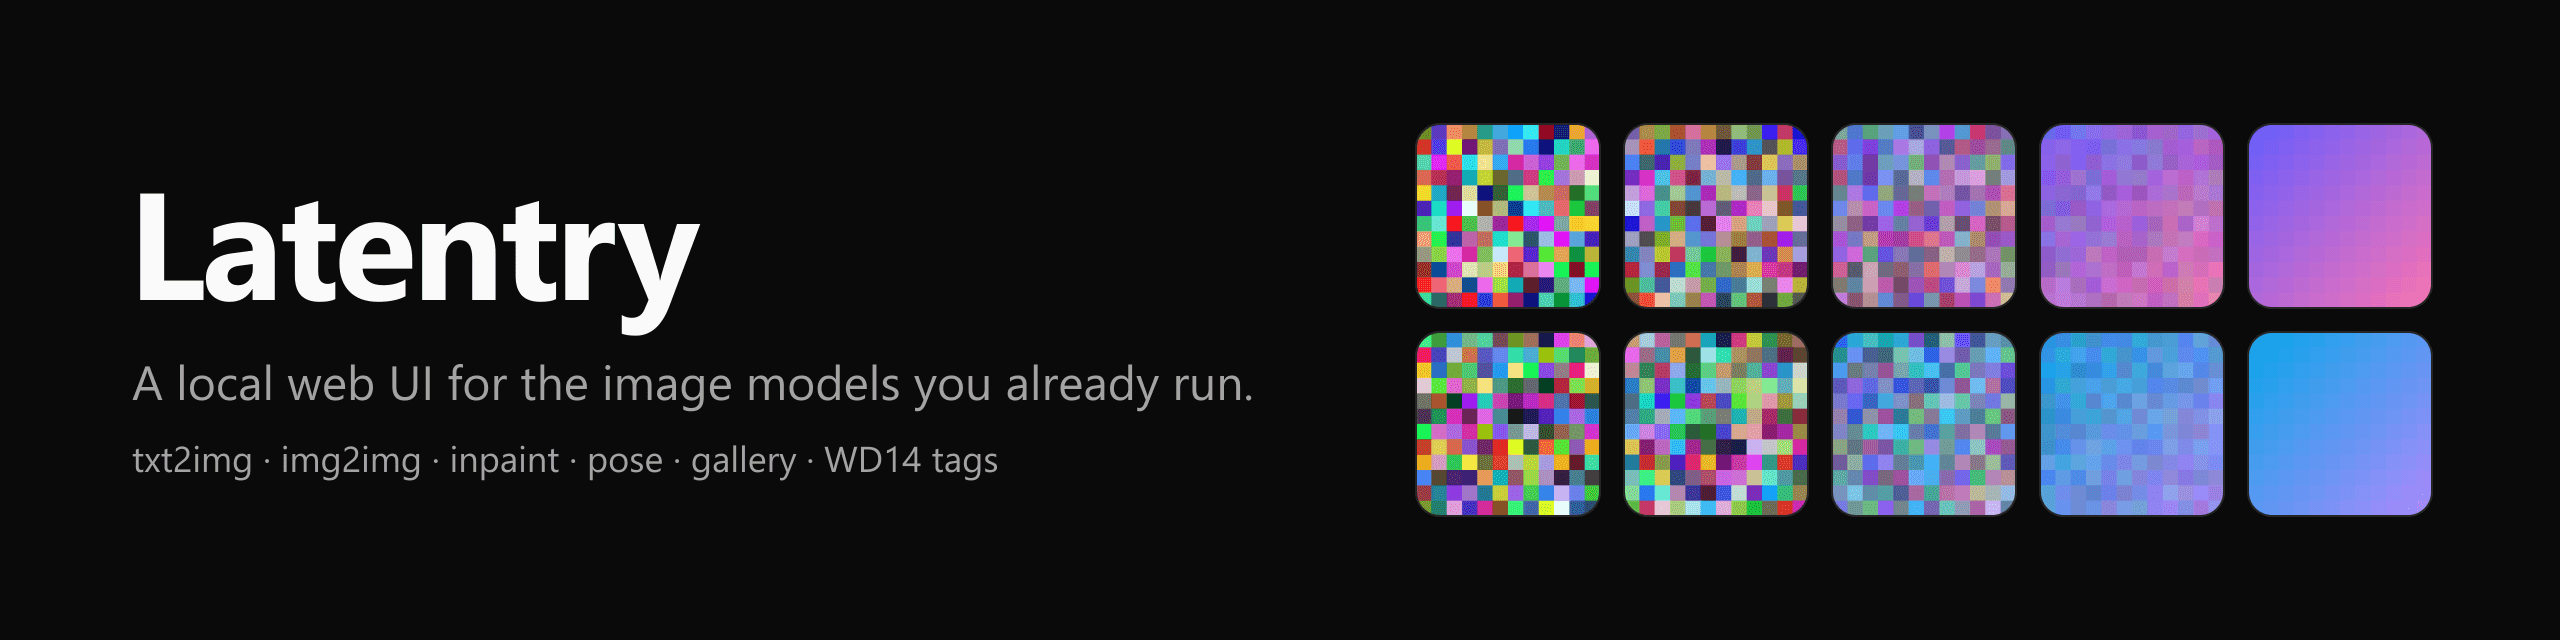
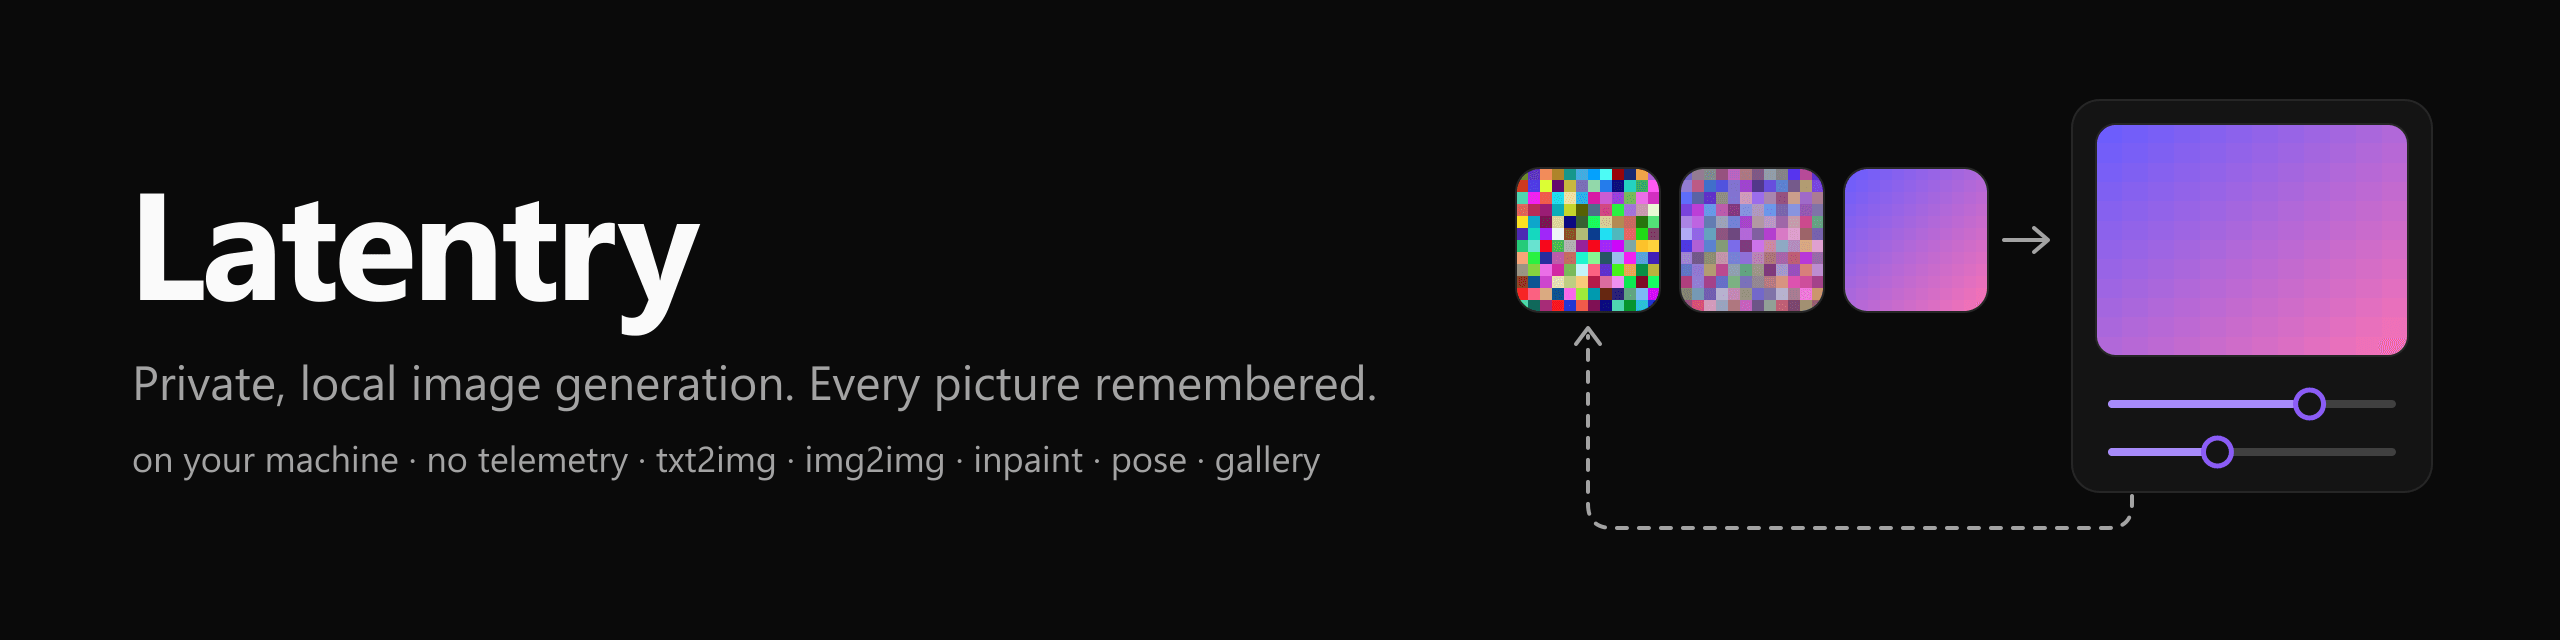
Lead with privacy and a gallery that remembers
New tagline, "Private, local image generation. Every picture remembered.",
across the banner, the terminal logo, the README, the manual's home page,
mkdocs, package.json and the app's metadata.

The banner's right side now shows the idea: tiles going from noise to a
picture, the picture landing on a card with its settings (two sliders), and
a dashed line from the card back to the start, since every picture keeps
how it was made and can be made again. Its second line says "on your
machine · no telemetry".

The README opens with what stays on your machine, puts the gallery's
search, orders, stacks and compare up front, and gains a Privacy section.
The manual gains a Privacy page: what goes over the network (your
backends, the downloads you start, nothing else) and what is kept where,
from the save folder to browser storage and Latentry's memory. The README
no longer says gallery folders can only be set in .env.local; Settings can
set them too, from this computer.

Changed region(s): [[0.0312, 0.1875, 0.9688, 0.8438]]

diff --git a/app/layout.tsx b/app/layout.tsx
@@ -11,7 +11,7 @@ const fontMono = Geist_Mono({ variable: "--font-geist-mono", subsets: ["latin"] 
 
 export const metadata: Metadata = {
   title: "Latentry",
-  description: "A local web UI for diffusion backends: generate, edit, browse and tag.",
+  description: "Private, local image generation. Every picture remembered.",
 }
 
 export default function RootLayout({ children }: LayoutProps<"/">) {

diff --git a/README.md b/README.md
@@ -1,17 +1,20 @@
 <picture>
   <source media="(prefers-color-scheme: dark)" srcset="docs/assets/banner-dark.png">
-  <img alt="Latentry: a local web UI for the image models you already run" src="docs/assets/banner-light.png">
+  <img alt="Latentry: private, local image generation. Every picture remembered." src="docs/assets/banner-light.png">
 </picture>
 
 # Latentry
 
 **Manual: https://33rd-kk.github.io/latentry/**
 
-A local web UI for the image models you already run. One form for
-text-to-image, img2img, inpainting and pose, in front of several backends at
-once: an Anima server and an SDXL web UI side by side, each with its own
-settings. Plus a gallery that knows how every picture was made, and WD14
-tagging in both directions.
+**Private, local image generation. Every picture remembered.**
+
+Latentry is a web UI that runs on your own computer, in front of the image
+models you already run, its own engine, or both. Your prompts, pictures,
+settings and tokens stay on your machine: nothing is sent anywhere you did
+not set up, and nothing is reported back. Every picture is saved with how it
+was made, and the gallery finds it again by what it shows or how it was
+made, then sends those settings back to the form to make it again.
 
 ## What it does
 
@@ -21,24 +24,29 @@ tagging in both directions.
   3D before generating (with [poseorbit](https://github.com/33rd-kk/poseorbit)).
   Runs live on the server, so a reload or a second tab picks up a run in
   progress.
-- **Several backends, several model families.** Each backend keeps its own
-  form. A *profile* (Anima, SDXL, Illustrious / NoobAI, Pony, generic) sets
-  sizes, steps, CFG, negative prompt, artist notation and quality tags. Change
-  it any time.
-- **Gallery.** Every finished image is saved with its settings embedded
-  (readable by A1111's PNG Info too). It also browses other folders
-  read-only, such as ComfyUI or web UI outputs, and reads their metadata.
-  Search, filter by backend or profile, and send settings, tags or the
-  picture itself back to the form.
+- **A gallery that knows how every picture was made.** Every finished image
+  is saved with its settings embedded (readable by A1111's PNG Info too).
+  Other folders, such as ComfyUI or web UI outputs, are browsed read-only,
+  and their settings are read from PNG, JPEG and WebP alike.
+  - Search prompts and tags, or one setting: `model:`, `lora:`, `seed:`,
+    `steps:>=30`, `w:1024`; leave pictures out with `-tag`.
+  - Order by date, name, size, date made or pixel count; filter by shape,
+    file type, age, resolution, model, LoRA and more.
+  - Stack pictures that share a prompt or seed, and compare two side by side
+    or with a slider, with what differs between them.
+  - Send a picture's settings, tags or the picture itself back to the form,
+    or show it in your file manager.
 - **Tags.** Extract WD14 tags from a source image and carry a character's
   look into the prompt by group (hair, eyes, outfit…). Show tags under every
   gallery card, tag one picture or a whole selection at once, and keep the
   tags in the file. Tagging runs inside Latentry (on the CPU, with a WD14
   model you download), or on a backend that has a tagger.
-- Light and dark, and a secret mode that keeps what you type out of browser
-  storage, blurs the gallery and keeps runs to the page that started them
-  (pictures are still saved to the gallery folder). The UI is in English and can be machine
-  translated into other languages (see [Translations](#translations)).
+- **Several backends, several model families.** Each backend keeps its own
+  form. A *profile* (Anima, SDXL, Illustrious / NoobAI, Pony, generic) sets
+  sizes, steps, CFG, negative prompt, artist notation and quality tags. Change
+  it any time.
+- Light and dark. The UI is in English and can be machine translated into
+  other languages (see [Translations](#translations)).
 
 ### Screenshots
 
@@ -50,6 +58,29 @@ tagging in both directions.
 
 <sub>The pictures were generated with Anima through Latentry, from original
 prompts (no named characters or artists).</sub>
+
+## Privacy
+
+Latentry is built to leave as little behind as it can, and to send nothing
+anywhere you did not choose. In short:
+
+- **Nothing leaves your machine** except requests to the backends you set
+  up, and downloads you start: installing and building (packages, and the
+  UI's font, fetched once at build time), and the engine, models and tagger
+  from the Setup page. No telemetry: the anonymous usage reports of Next.js
+  and Hugging Face are turned off.
+- **Closed by default.** It listens on 127.0.0.1, settings can only be
+  changed from this computer, and a backend's token is only ever sent to that
+  backend.
+- **The browser keeps little.** The gallery's search, order and filters are
+  not stored, and its index of a folder is kept in memory only. **Secret
+  mode** keeps what you type out of browser storage and blurs the gallery.
+- **Your files are yours.** Latentry writes pictures, and tags you ask for,
+  into its own save folder only, and never deletes, moves or renames a
+  picture.
+
+The manual's [Privacy](https://33rd-kk.github.io/latentry/guide/privacy/)
+page lists what is kept where.
 
 ## Backends
 
@@ -131,8 +162,8 @@ back to `.env.local`.
 
 - **The gallery reads folders on the machine running Latentry.** Backends can
   live elsewhere on the network, but `GALLERY_SAVE_DIR` and `GALLERY_DIRS`
-  must be local (or a mounted share). Folders are set in `.env.local` only,
-  never from the browser.
+  must be local (or a mounted share). Folders are set in `.env.local` or on
+  the Settings page, which only this computer can change.
 - **Images are saved twice** if your backend also saves its own copy.
   Latentry's copy is the one with the settings embedded. Turn the backend's
   saving off if you do not want both.

diff --git a/docs/guide/privacy.md b/docs/guide/privacy.md
@@ -1,0 +1,55 @@
+# Privacy
+
+Latentry runs on your own computer, and is built to send nothing anywhere
+you did not choose and to leave as little behind as it can. This page says
+what goes over the network, and what is kept where, so you can check it
+against what you expect.
+
+## What goes over the network
+
+- **To your backends**, the ones you set up: prompts, settings and source
+  pictures for each run, and the backend's token if it has one. A token is
+  only ever sent to the server it was set up for.
+- **Downloads you start**: installing and building Latentry (npm packages,
+  and the UI's font, which the build fetches once and then serves itself),
+  and, from the Setup page, the engine (uv, Python, PyTorch, diffusers), the
+  models you pick and the WD14 tagger.
+- **Nothing else.** No telemetry, no update checks, no analytics. The
+  anonymous usage reports of Next.js and Hugging Face are turned off.
+
+The browser only talks to Latentry itself. Latentry listens on 127.0.0.1
+unless you set `LATENTRY_HOST`; see
+[Other devices and security](network.md) before opening it to a network.
+
+## What is kept, and where
+
+| Where | What | When it goes |
+|---|---|---|
+| The gallery's save folder | Every finished picture, with its prompt and settings inside the file; WD14 tags, when you tag a picture there | When you delete the files |
+| `.env.local`, `latentry.settings.json` | Backends, folders and options, and backend tokens (in the settings file when typed on Settings) | When you change or delete them |
+| `.runtime/`, `models/` | The engine, the models and the tagger you downloaded | When you delete them, or uninstall |
+| This browser (localStorage) | The generate form, the prompt shared across backends, saved characters, the chosen backend, and display preferences such as tags under cards | Kept between visits. Clear the site's data to remove it |
+| Latentry's memory | Runs in progress, thumbnails, and the gallery's index of a folder (date made, size, model, LoRAs, a hash of each prompt, the seed) | When Latentry stops |
+
+Not kept anywhere: the gallery's search, order and filters (they last only
+as long as the page), and pictures from other folders, which are only read.
+
+## Secret mode
+
+[Secret mode](secret-mode.md) keeps what you type out of the browser's
+storage, blurs the gallery and hides prompts and settings until you choose
+to show them. Pictures are still saved to the gallery folder.
+
+## What Latentry does not do to your files
+
+It writes only into its own save folder: new pictures, and tags you ask for.
+Folders of other tools are read-only. It never deletes, moves or renames a
+picture. To do that, **Show in folder** opens the picture in your file
+manager (only from the computer Latentry runs on).
+
+## Reading other tools' pictures
+
+From a picture's metadata the gallery reads only what holds generation
+settings: PNG text, and in JPEG and WebP a few EXIF fields (UserComment,
+ImageDescription, Make, Model). It never reads location, camera details or
+embedded thumbnails.

diff --git a/docs/index.md b/docs/index.md
@@ -2,13 +2,14 @@
 
 <picture>
   <source media="(prefers-color-scheme: dark)" srcset="assets/banner-dark.png">
-  <img alt="Latentry: a local web UI for the image models you already run" src="assets/banner-light.png">
+  <img alt="Latentry: private, local image generation. Every picture remembered." src="assets/banner-light.png">
 </picture>
 
-**A local web UI for the image models you already run.** One form for
-text-to-image, img2img, inpainting and pose, in front of several backends at
-once: Latentry's own engine, servers you already run, or both. Every picture
-lands in a searchable gallery with its settings.
+**Private, local image generation. Every picture remembered.** A web UI
+on your own computer, in front of Latentry's own engine, the servers you
+already run, or both. Your prompts, pictures and settings stay on your
+machine. Every picture is saved with how it was made, and the gallery finds
+it again by what it shows or how it was made.
 
 ![The generate page: a reference's pose turned 30 degrees in the 3D view, and the two pictures generated from it](assets/screenshot-generate.webp)
 
@@ -23,8 +24,13 @@ lands in a searchable gallery with its settings.
   sizes, steps, CFG, negative prompt, artist notation and quality tags.
 - **Gallery**: every finished image is saved with its settings embedded
   (readable by A1111's PNG Info too); other tools' folders are browsed
-  read-only. Search, filter, and send settings, tags or the picture back to
-  the form.
+  read-only, with settings read from PNG, JPEG and WebP. Search by prompt,
+  tag or setting (`lora:`, `steps:>=30`), order and filter, stack pictures
+  that share a prompt, compare two, and send settings, tags or the picture
+  back to the form.
+- **Private by design**: nothing is sent anywhere you did not set up, no
+  telemetry, settings only from this computer, and a secret mode. See
+  [Privacy](guide/privacy.md).
 - **Tags**: WD14 tags from a source picture, carried into the prompt by group
   (hair, eyes, outfit…); tags under every gallery card; tag a whole selection
   at once.
@@ -38,6 +44,7 @@ lands in a searchable gallery with its settings.
    generate the first picture.
 2. The guide, page by page: [Generate](guide/generate.md),
    [Pose and the 3D view](guide/pose.md), [Gallery](guide/gallery.md),
+   [Privacy](guide/privacy.md),
    [Setup and the engine](guide/engine.md), [Settings](guide/settings.md).
 3. [Other devices and security](guide/network.md) before using it from a
    phone.

diff --git a/CHANGELOG.md b/CHANGELOG.md
@@ -2,6 +2,11 @@
 
 ## Unreleased
 
+- **README and manual** lead with what Latentry is for: private, local image
+  generation, and a gallery that remembers how every picture was made. A
+  new banner, a Privacy section in the README, and a
+  [Privacy](https://33rd-kk.github.io/latentry/guide/privacy/) page in the
+  manual listing what goes over the network and what is kept where.
 - **Gallery**: **Stack** pictures that share a prompt or a seed into one
   card, and open a stack to see them. **Compare** two selected pictures with
   a slider (or side by side), their differing settings and the prompt tags
